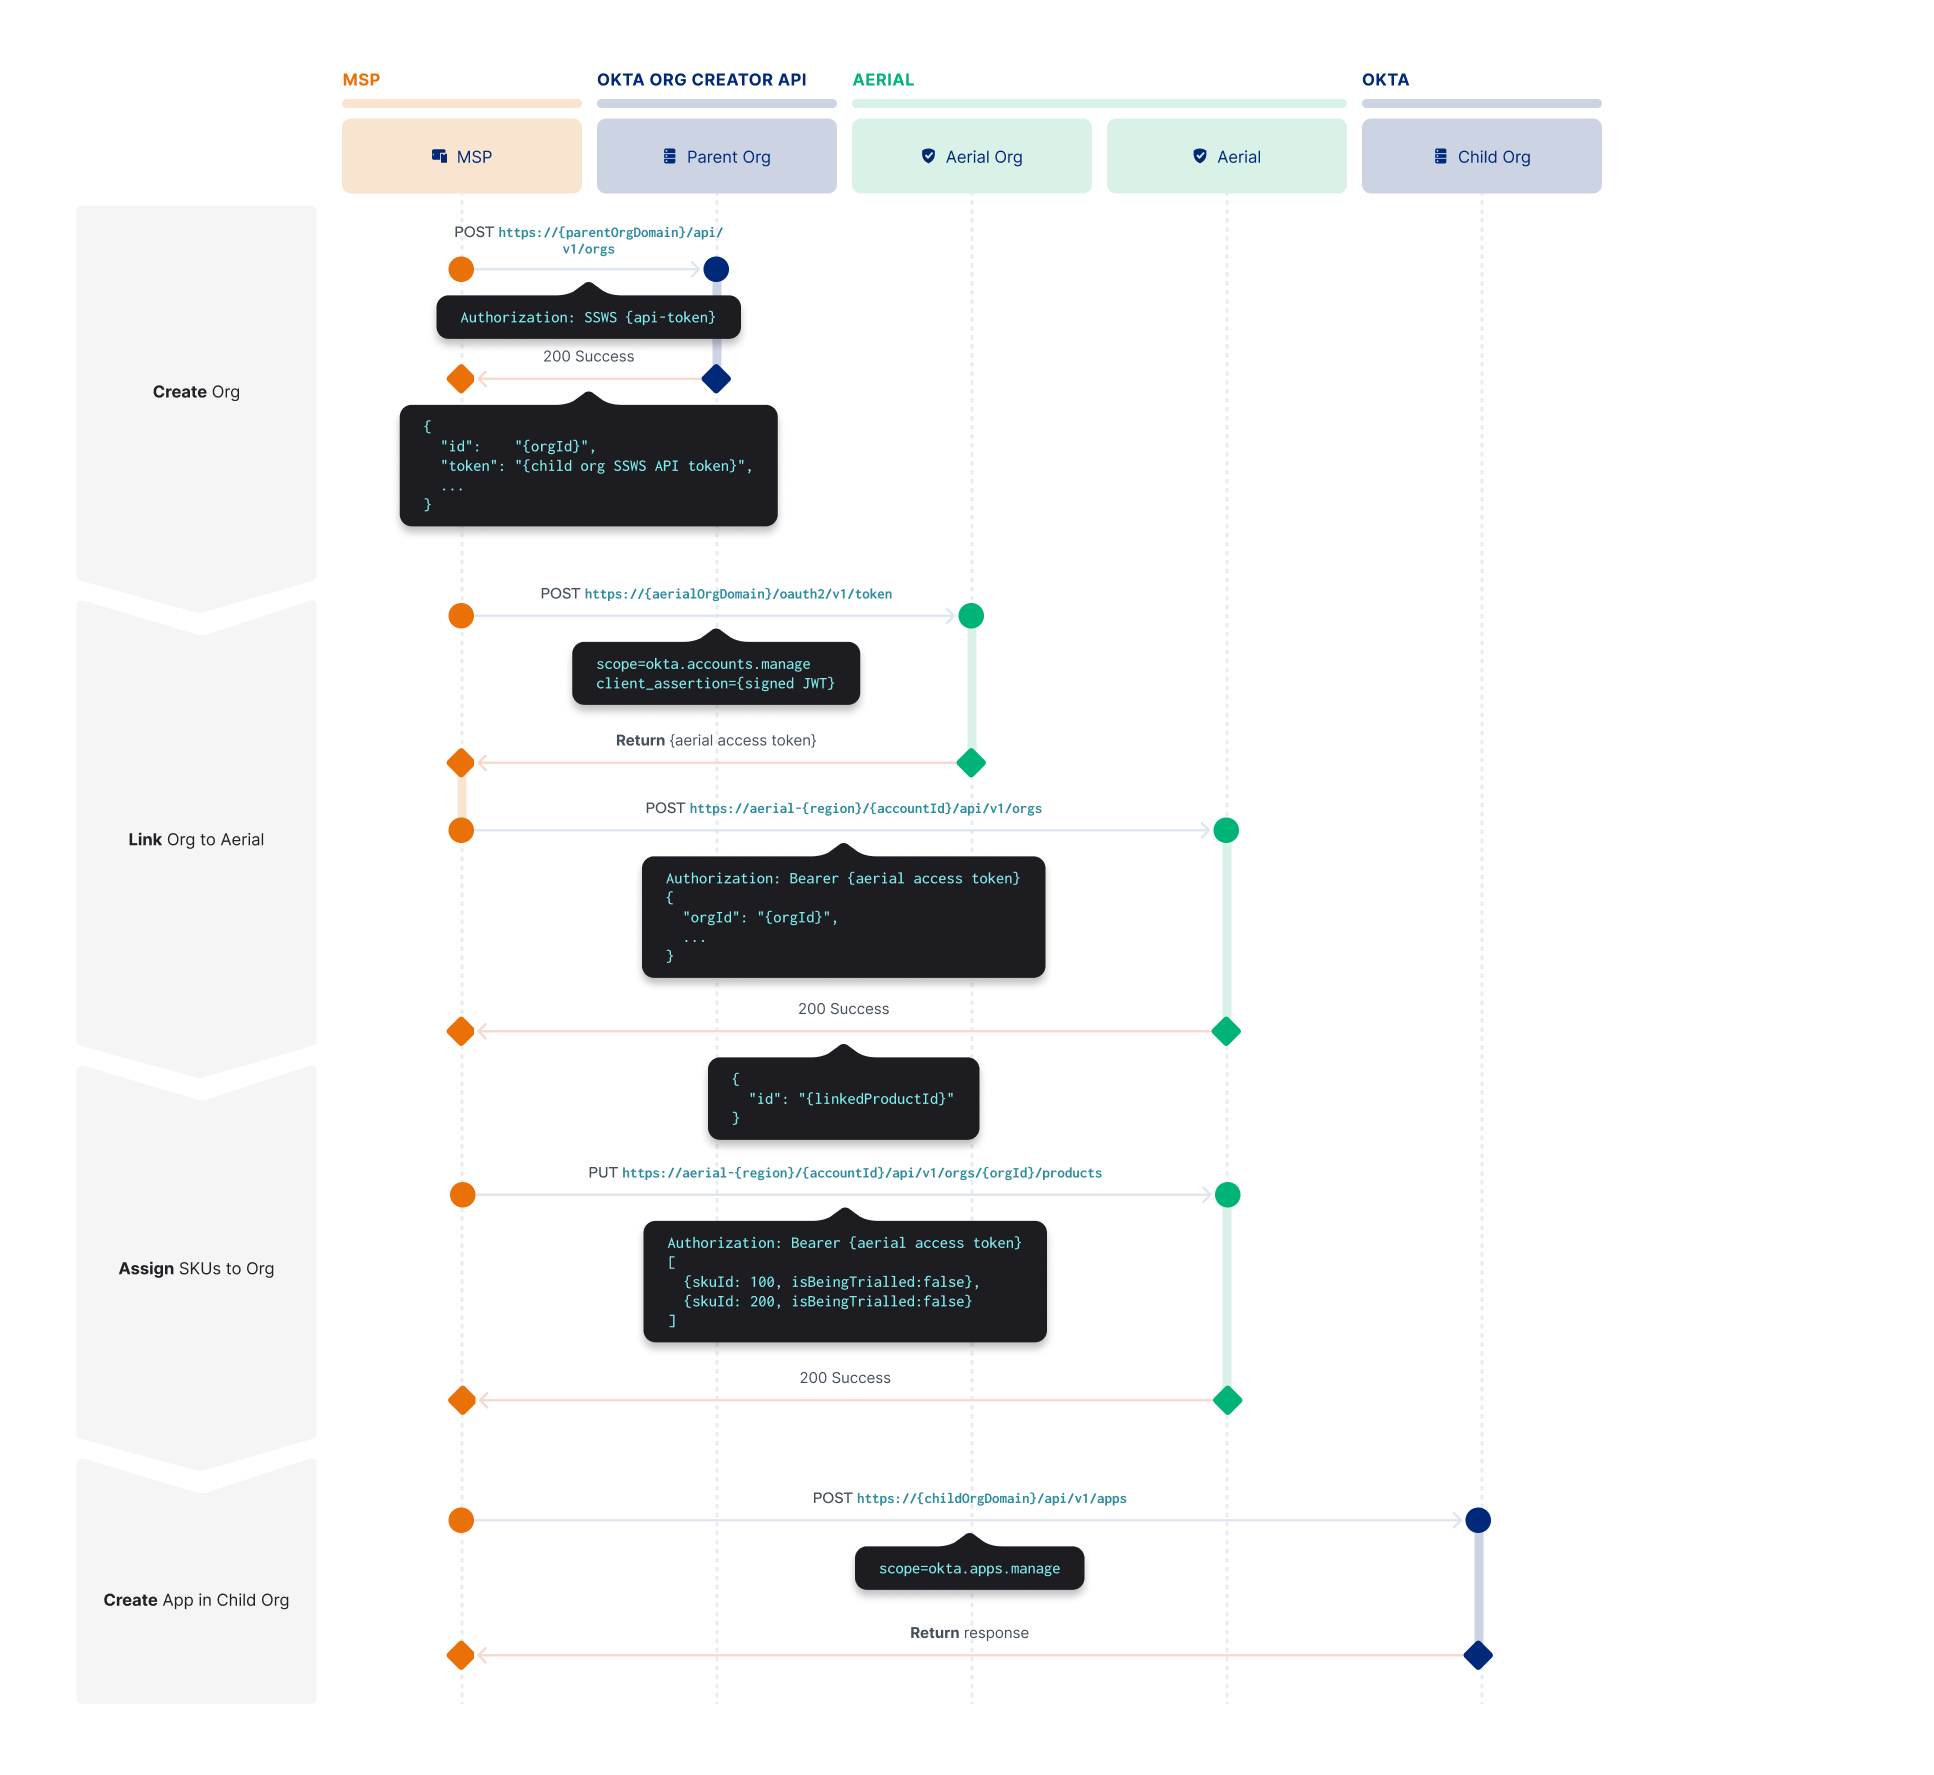
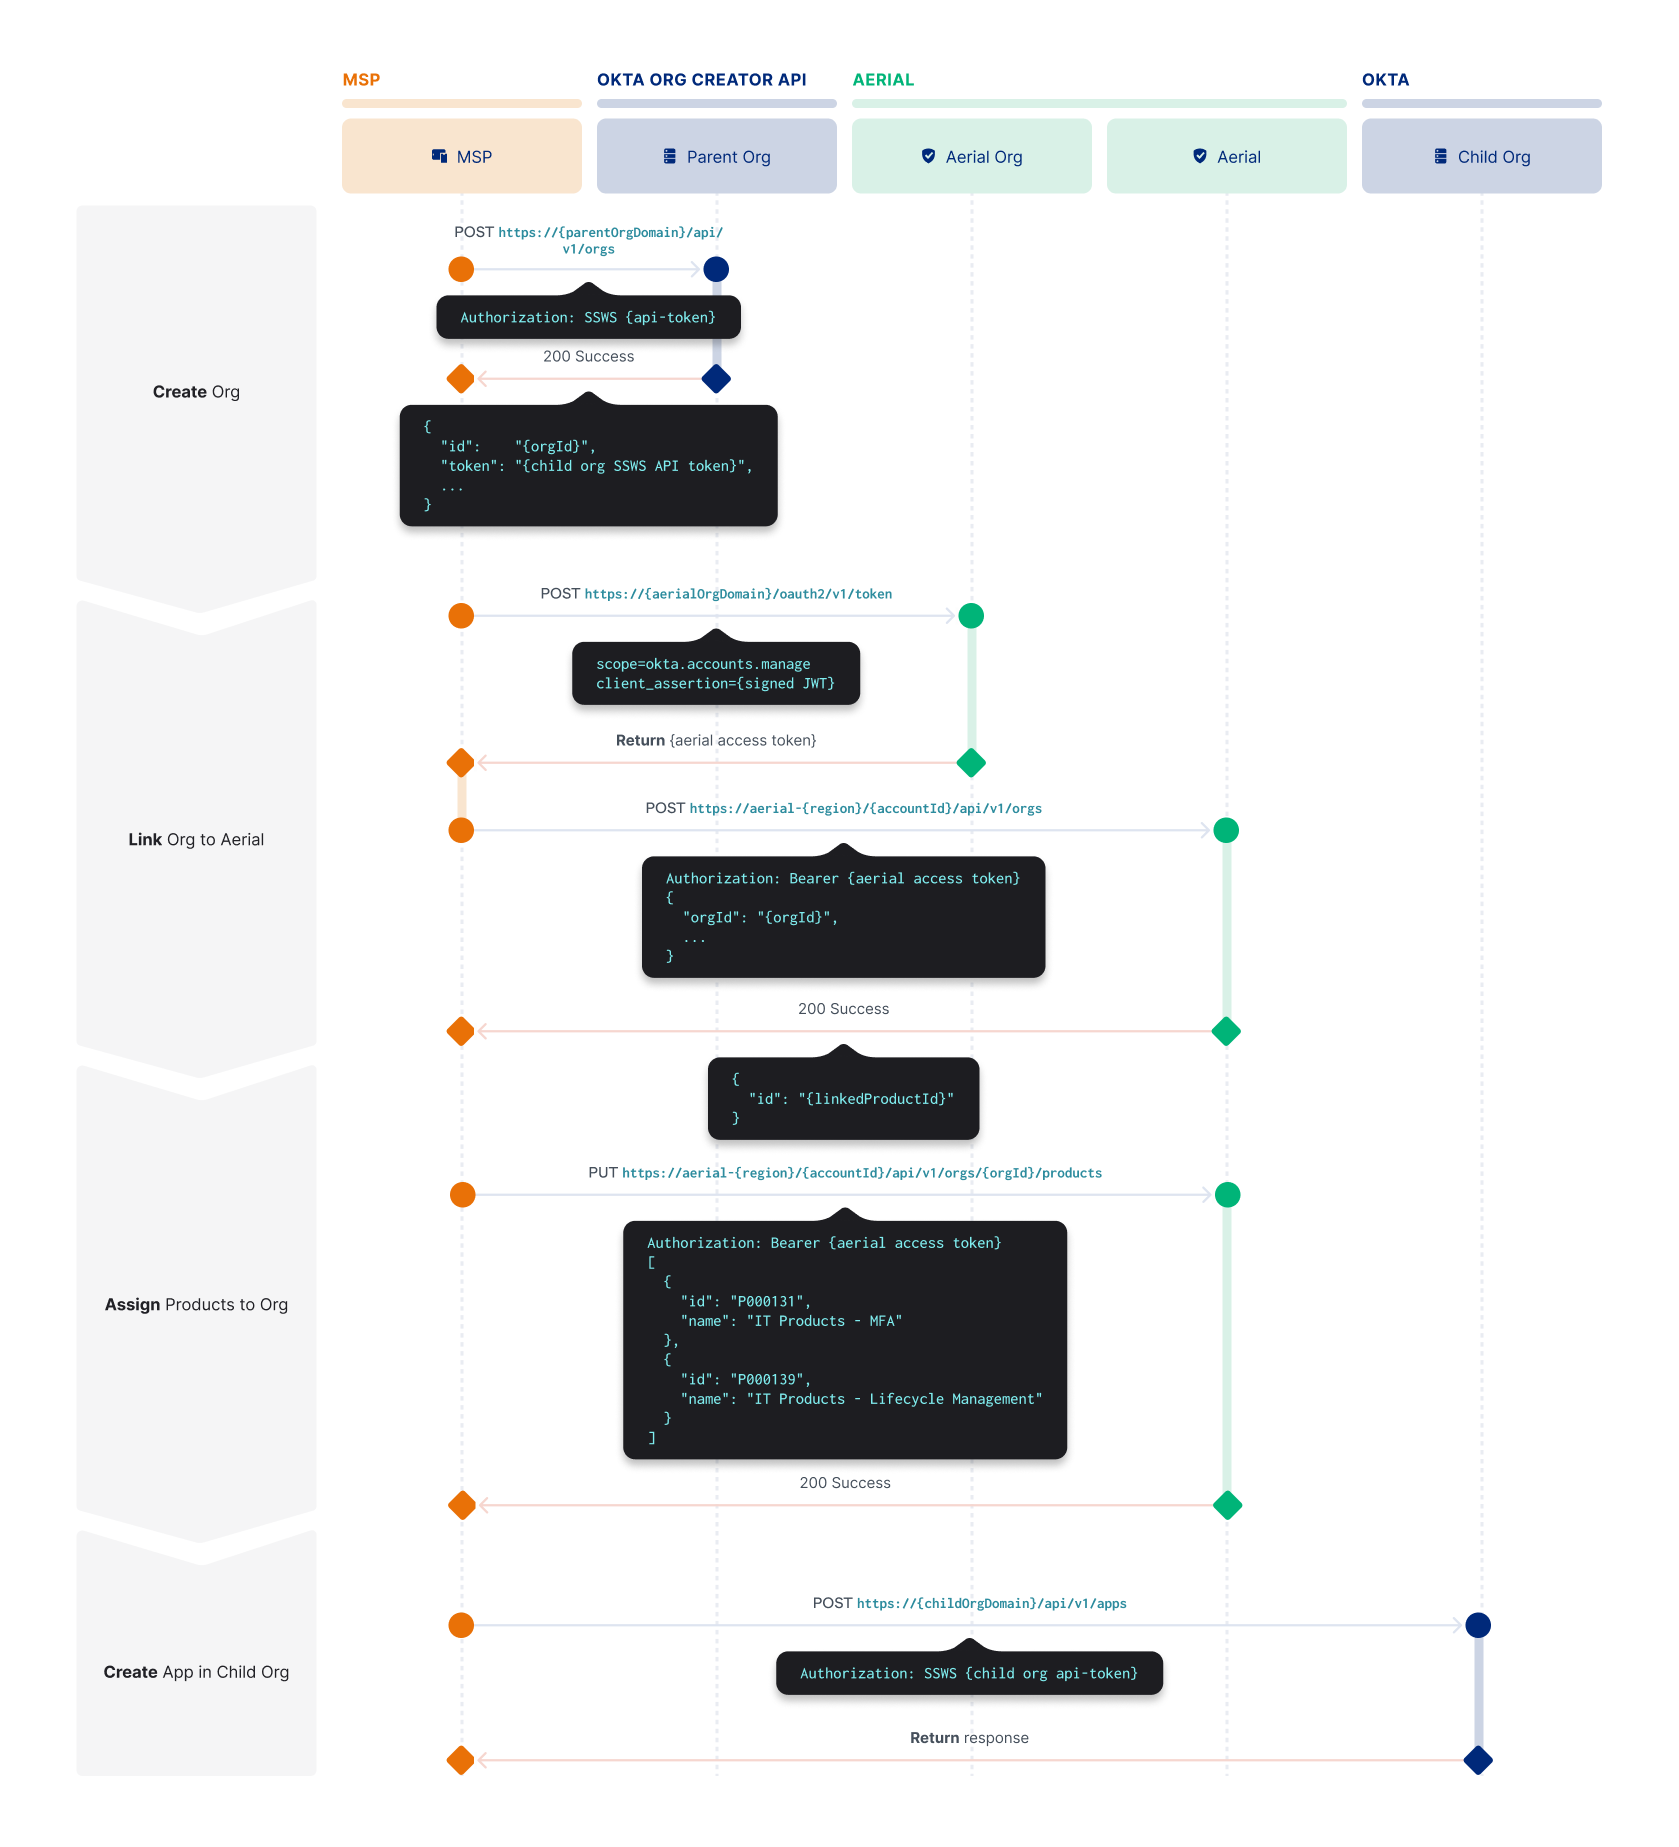
updates image based on rajat feedback and adds figma source info for images

diff --git a/packages/@okta/vuepress-site/docs/guides/manage-orgs-okta-aerial/main/index.md b/packages/@okta/vuepress-site/docs/guides/manage-orgs-okta-aerial/main/index.md
@@ -90,6 +90,10 @@ You can also [Manage an org's status](#manage-an-orgs-status).
 
 ![Okta Aerial - summary of steps](/img/aerial-full-flow.png)
 
+<!--
+Source image: https://www.figma.com/file/YH5Zhzp66kGCglrXQUag2E/%F0%9F%93%8A-Updated-Diagrams-for-Dev-Docs?type=design&node-id=4402-33036&mode=design&t=mlPc1k2amETXHteN-4  aerial-full-flow
+-->
+
 </div>
 
 ## Register an Okta Aerial API client
@@ -223,6 +227,15 @@ Any already-enabled products not found in the array of product IDs are disabled 
 
 ![Enable a product in an org](/img/aerial-enable-product.png)
 
+<!--
+Source image: https://www.figma.com/file/YH5Zhzp66kGCglrXQUag2E/%F0%9F%93%8A-Updated-Diagrams-for-Dev-Docs?type=design&node-id=4410-2869&mode=design&t=mlPc1k2amETXHteN-11  aerial-enable-product
+-->
+
+<!--
+Though not used in this doc, we have an image for disabling products in the org
+Source image: https://www.figma.com/file/YH5Zhzp66kGCglrXQUag2E/%F0%9F%93%8A-Updated-Diagrams-for-Dev-Docs?type=design&node-id=4410-2937&mode=design&t=mlPc1k2amETXHteN-11  aerial-remove-product
+-->
+
 </div>
 
 ### Request and response examples
@@ -286,6 +299,10 @@ Deactivate an org by calling the `/status` endpoint. Deactivated orgs don’t co
 <div class="three-quarter">
 
 ![Deactivate an org](/img/aerial-change-status.png)
+
+<!--
+Source image: https://www.figma.com/file/YH5Zhzp66kGCglrXQUag2E/%F0%9F%93%8A-Updated-Diagrams-for-Dev-Docs?type=design&node-id=4410-2193&mode=design&t=mlPc1k2amETXHteN-11  aerial-change-status
+-->
 
 </div>
 
